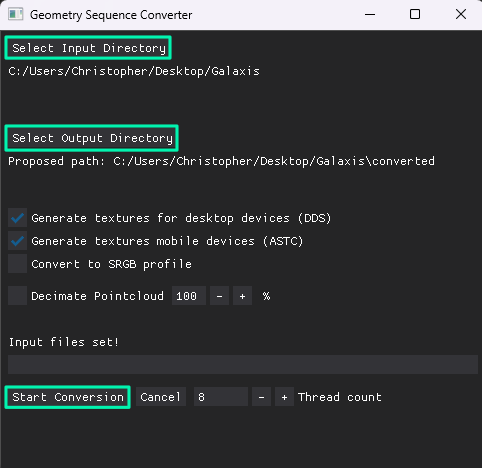
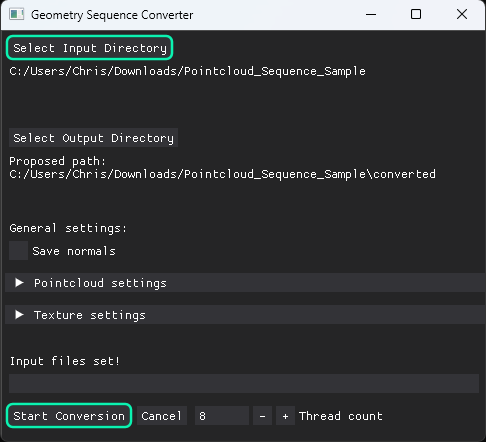
Updated docs with Normal Feature

diff --git a/docs/content/docs/tutorials/prepare-data/index.md b/docs/content/docs/tutorials/prepare-data/index.md
@@ -72,16 +72,24 @@ And for images:
 
 ### Using the converter
 
-1. Click on ***Select Input Directory*** and select the folder containing the files. ![Converter Select Input](Converter_SelectInput.png)
+1. Click on ***Select Input Directory*** and select the folder containing the files.
+![Converter Select Input](Converter_SelectInput.png)
 
-2. You can now optionally choose an output directory. If you don't choose one, a folder named *converted* will be created inside your sequence directory. ![Converter Select Drive](Converter_SelectOutput.png)
+2. You can now optionally choose an output directory. If you don't choose one, a folder named *converted* will be created inside your sequence directory.
+![Converter Select Drive](Converter_SelectOutput.png)
 
-3. The converter provides some settings which can be used to modify the sequence: ![Converter Select Input](Converter_Options.png)
+3. The converter provides some settings which can be used to modify the sequence:
+![Converter Select Input](Converter_Options.png)
 
-    - **Generate textures for desktop devices (DDS):** This converts the textures into a format for desktop GPUs. Recommended to leave on, even when you only build for mobile devices, otherwise textures won't show up in the Unity editor.
-    - **Generate textures for mobile devices (ASTC):** If you plan to distribute your application on mobile devices (Android, IPhone, Meta Quest, Apple Vision Pro) and use textured meshes, you need to also generate .astc textures. You only need to transfer the .astc textures to your device, but not the .dds textures.
-    - **Convert to SRGB profile:** Activate when your textures look noticably darker / brighter after the conversion
-    - **Decimate Pointcloud:** You can downsize your pointcloud sequence with this option. The value determines the percentage of points left after conversion. E.g. setting the value to 30% will decrease the points of the sequence by 70%.
+- **Save normals:** When enabled, the normals of the mesh or pointcloud sequence are exported. Only recommended to enable if you have custom normals
+- **Pointcloud Settings:** Only affects pointclouds
+  - **Decimate Pointcloud:** You can downsize your pointcloud sequence with this option. The value determines the percentage of points left after conversion. E.g. setting the value to 30% will decrease the points of the sequence by 70%.
+  - **Merge Points by Distance:** Merges points that are close together. The higher the value, the more points will be merged. Useful if the data contains duplicated points
+  - **Estimate Normals:** Pointclouds usually don't come with normals. When this option is enabled, the normals will be reasonably estimated.
+- **Texture Settings** Only affects mesh sequences with textures
+  - **Generate textures for desktop devices (DDS):** This converts the textures into a format for desktop GPUs. Recommended to leave on, even when you only build for mobile devices, otherwise textures won't show up in the Unity editor.
+  - **Generate textures for mobile devices (ASTC):** If you plan to distribute your application on mobile devices (Android, IPhone, Meta Quest, Apple Vision Pro) and use textured meshes, you need to also generate .astc textures. You only need to transfer the .astc textures to your device, but not the .dds textures.
+  - **Convert to SRGB profile:** Activate when your textures look noticably darker / brighter after the conversion
 
 4. When you've set your input/output folders, click on ***Start Conversion***. You can optionally choose the amount of threads used for the conversion, which might come in handy for heavy/large sequences. ![Converter Select Drive](Converter_Start_Threads.png)
 
@@ -93,7 +101,7 @@ If you want to export your data into the correct format directly, without using 
 
 ### Pointcloud .ply files
 
-For .ply files containing pointclouds, use the normal **little endian binary** .ply standard, but be sure to encode the **vertex positions as 32-bit floats** (not doubles), and use the **vertex colors as uchar RGBA**. You always need to provide the red, green, blue and alpha channel, even when your sequence doesn't use alpha values or colors at all. The alpha channel isn't used in the plugin right now, but it allows for faster file reads, as RGBA is the native Unity vertex color format. Don't include any vertex indices! Here is an example of how the header of a ply looks that is correctly formatted:
+For .ply files containing pointclouds, use the normal **little endian binary** .ply standard, but be sure to encode the **vertex positions and normals as 32-bit floats** (not doubles), and use the **vertex colors as uchar RGBA**. You always need to provide the red, green, blue and alpha channel, even when your sequence doesn't use alpha values or colors at all. Normals are optional, and don't have to be used. Here is an example of how the header of a ply looks that is correctly formatted:
 
 ```ply
 ply
@@ -103,6 +111,9 @@ element vertex 50000
 property float x
 property float y
 property float z
+property float nx
+property float ny
+property float nz
 property uchar red
 property uchar green
 property uchar blue
@@ -110,15 +121,15 @@ property uchar alpha
 end_header
 ```
 
-As an example for how the data for a a single vertex (line) could look like this. Three XZY-Float values are followed by four RGBA byte/uchar values:
+As an example for how the data for a a single vertex (line) could look like this. Three float position values are followed by another three normal floats and four RGBA byte/uchar values:
 
 ```ply
-0.323434 0.55133 1.44322 255 255 255 0 
+0.323434 0.55133 1.44322 0.65453 0.23645 0.65372 255 255 255 0 
 ```
 
 ### Mesh .ply files
 
-For .ply files containing meshes, you use the same **little endian binary** format as for the pointclouds, with the **vertex positions encoded as 32-bit floats**. Encode the **face indices as a uchar uint list**, as it is commonly done in the ply format. Only encode **faces as triangles**, so the uchar component of the face indices list should always be "3", the uInts should be 32-bit.
+For .ply files containing meshes, you use the same **little endian binary** format as for the pointclouds, with the **vertex positions encoded as 32-bit floats**. Encode the **face indices as a uchar uint list**, as it is commonly done in the ply format. Only encode **faces as triangles**, so the uchar component of the face indices list should always be "3". Optionally, you can also supplement **per vertex normals** with the nx, ny and nz properties.
 If you want to use textures/UV-coordinates, include the **U and V-coordinates as additional float propertys (property s and property t)** right behind the xyz properties.
 An example header of a correctly formatted mesh ply file with UV-coordinates would look like this:
 
@@ -130,6 +141,9 @@ element vertex 73200
 property float x
 property float y
 property float z
+property float nx
+property float ny
+property float nz
 property float s
 property float t
 element face 138844
@@ -137,13 +151,13 @@ property list uchar uint vertex_indices
 end_header
 ```
 
-The data for a single vertex (line) would look like this. Three XYZ-float values, followed by two float values for the UV-coordinates:
+The data for a single vertex (line) would look like this. Three vertex position floats, followed by three vertex normal floats and two float values for the UV-coordinates:
 
 ```ply
-0.323434 0.55133 1.44322 0.231286 0.692901
+0.323434 0.55133 1.44322 0.65453 0.23645 0.65372 0.231286 0.692901
 ```
 
-The data for a single indice (line) in the index list could look like this:
+The data for a single indice (line) in the index list could look like this. The indice list is appended after the vertex list:
 
 ```ply
 3 56542 56543 56544
@@ -168,6 +182,7 @@ The sequence.json file contains information about your sequence in the following
   "DDS": true, //Does this sequence have .dds textures?
   "ASTC": false, //Does this sequence have .astc textures?
   "hasUVs": true, //If using a mesh, does it have UVs?
+  "hasNormals": false, //Are per-vertex normals used?
   "maxVertexCount": 26545, //The vertice count of the mesh/pointcloud with the highest vertice count in the whole sequence
   "maxIndiceCount": 55423, //The indice count of the mesh/pointcloud with the highest indice count in the whole sequence
   "maxBounds": [325.8575134277344, 295.0, 2103.5478515625, -18.240554809570312, -238.74757385253906, 0], //Bounds of the mesh in the format: MaxboundX, MaxboundY, MaxboundZ, MinboundX, MinboundY, MinboundZ

diff --git a/docs/content/docs/tutorials/materials/index.md b/docs/content/docs/tutorials/materials/index.md
@@ -15,7 +15,9 @@ toc: true
 
 ## Intro
 
-To enhance the appearance of your sequences, you can apply your own custom Materials and Shaders.
+To enhance the appearance of your sequences, you can apply your own custom Materials and Shaders. If you don't supply a material, an appropriate default material will be automatically assigned.
+
+By default, an **unlit** material will be assigned to the sequence, which means they won't be affected by the scene lighting. Lit materials can either be created by yourself, or you can use one of the materials available under `Packages/Geometry Sequence Player/Runtime/Materials/Your selected Renderpath`
 
 ## Mesh sequences
 
@@ -42,6 +44,12 @@ Changing the appearance of the pointcloud works very differently compared to mes
 ![Pointcloud Settings](Pointcloud_Settings.png)
 
 ### Pointcloud Render Path
+
+The Geometry Sequence Player supports three different render paths:
+
+- **ShaderGraph**
+- **Legacy**
+- **Polyspatial**
 
 In Unity, there are two basic ways to create shaders. You can either code them yourselves, or use the visual coding tool _Shadergraph_. Both paths are supported by the Geometry Sequence Player, and with this option you can manually choose which should be used. For HDRP, URP and built-in (with the shadergraph package installed), we recommend the **Shadergraph** path. If you are more comfortable with coding shaders, or you use the built-in render without the shadergraph package, the **Legacy** render path is right for you. The **Polyspatial** render path should only be used when working with the Apple Vision Pro.
 

diff --git a/docs/content/docs/about/license-credits.md b/docs/content/docs/about/license-credits.md
@@ -27,8 +27,10 @@ The Unity Asset Store version of the package is licensed under the [Unity Standa
 
 ## Credits
 
-The sequences in the showreel, from the landing page and on Github, were created by:
+- This website was created with the **[Doks](https://getdoks.org/)** theme made by **[Thulite](https://thulite.io/)**
 
-["A Windy Day2 by Loic Norgeot](https://sketchfab.com/3d-models/a-windy-day-fb78f4cc938144e6902dd5cff354d525)
+- The sequences in the showreel, from the landing page and on Github, were created by:
 
-["Galactic Incident2 by Loic Norgeot](https://sketchfab.com/3d-models/galactic-incident-397b266af9604b9fbf0a4e5446cf864b)
+  - ["A Windy Day2 by Loic Norgeot](https://sketchfab.com/3d-models/a-windy-day-fb78f4cc938144e6902dd5cff354d525)
+
+  - ["Galactic Incident2 by Loic Norgeot](https://sketchfab.com/3d-models/galactic-incident-397b266af9604b9fbf0a4e5446cf864b)
